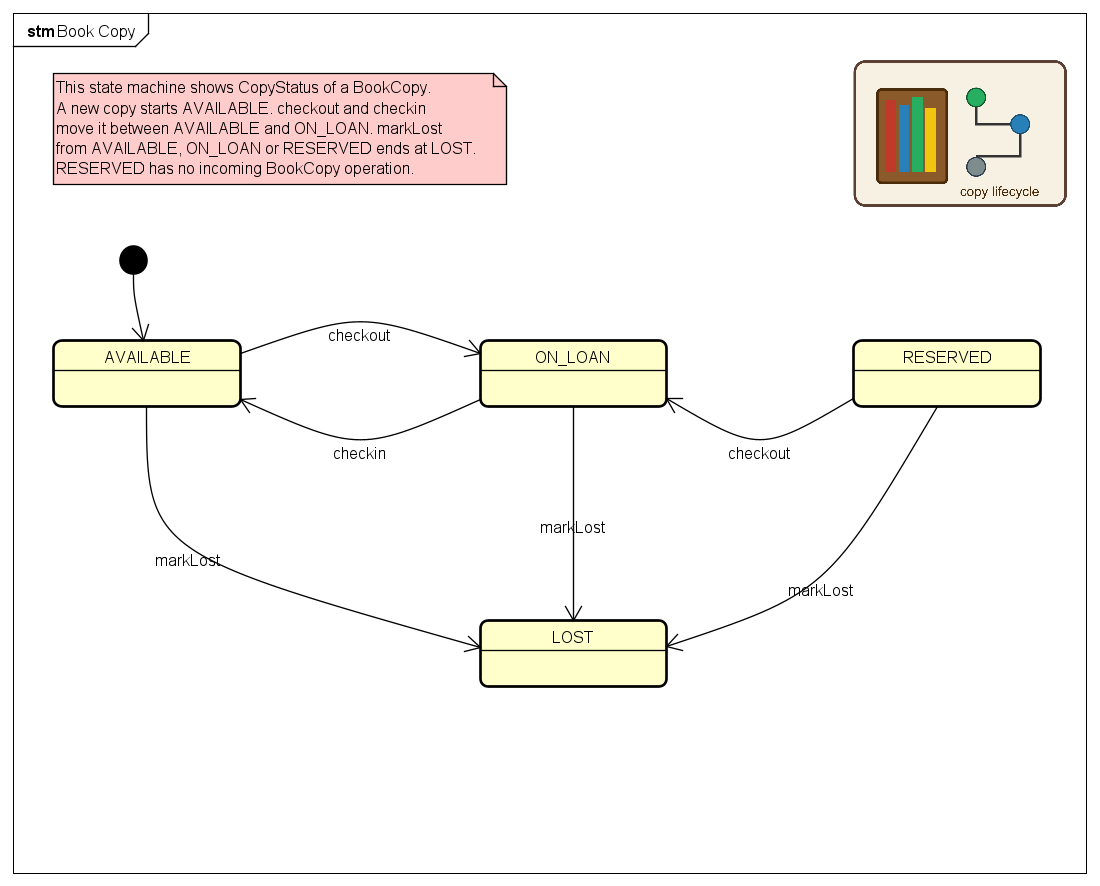
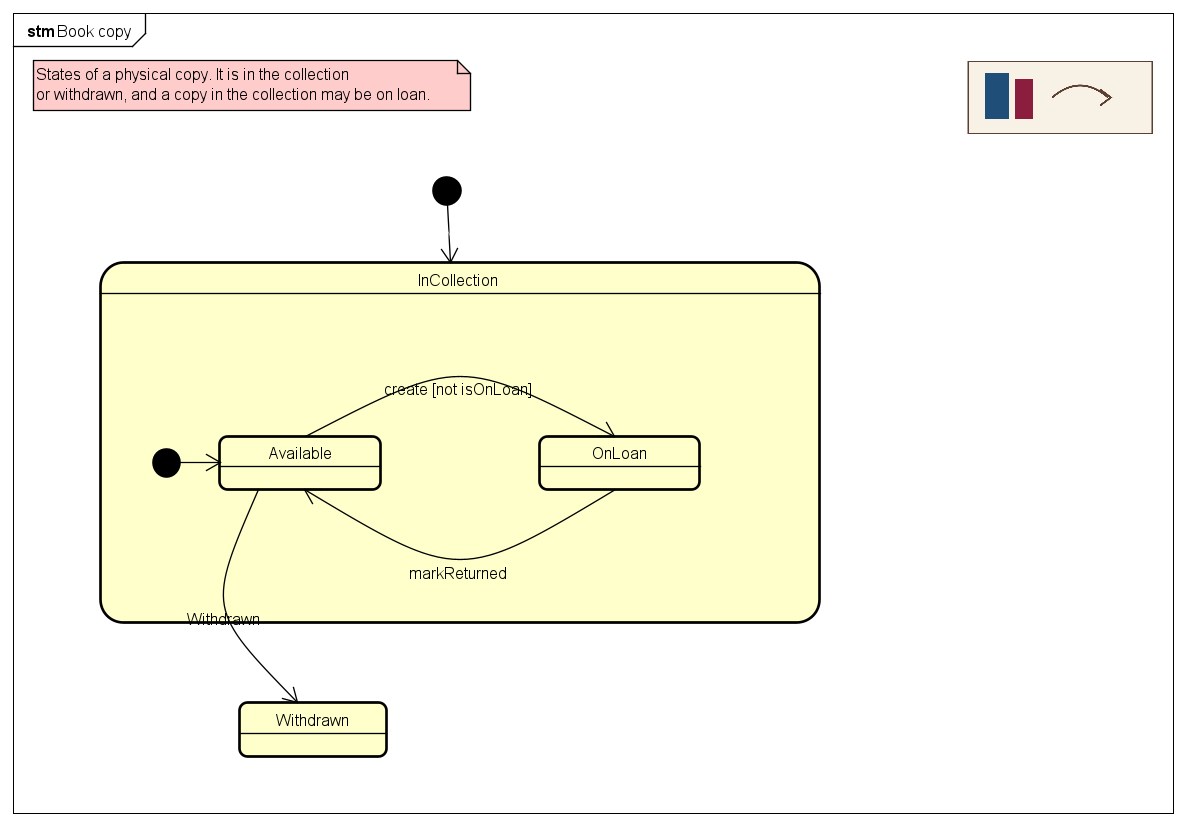
Update the Grok Build demo to use Grok 4.7

diff --git a/README.md b/README.md
@@ -57,7 +57,7 @@ Model: Astra / Effort: Medium / Total time: approx. 19 min
 
 ### Grok Build
 
-Model: Grok 4.6 / Effort: Medium / Total time: approx. 41 min
+Model: Grok 4.7 / Effort: Medium / Total time: approx. 41 min
 
 <table width="100%">
   <tr>
@@ -67,10 +67,10 @@ Model: Grok 4.6 / Effort: Medium / Total time: approx. 41 min
     <td width="25%" align="center"><b>IV</b></td>
   </tr>
   <tr>
-    <td width="25%"><a href="demo/grok-build/Library%20Management%20Structure.png"><img src="demo/grok-build/Library%20Management%20Structure.png" width="100%"></a></td>
-    <td width="25%"><a href="demo/grok-build/Borrow%20Book.png"><img src="demo/grok-build/Borrow%20Book.png" width="100%"></a></td>
-    <td width="25%"><a href="demo/grok-build/Return%20Book.png"><img src="demo/grok-build/Return%20Book.png" width="100%"></a></td>
-    <td width="25%"><a href="demo/grok-build/Book%20Copy.png"><img src="demo/grok-build/Book%20Copy.png" width="100%"></a></td>
+    <td width="25%"><a href="demo/grok-build/Library%20structure.png"><img src="demo/grok-build/Library%20structure.png" width="100%"></a></td>
+    <td width="25%"><a href="demo/grok-build/Borrow%20a%20copy.png"><img src="demo/grok-build/Borrow%20a%20copy.png" width="100%"></a></td>
+    <td width="25%"><a href="demo/grok-build/Return%20a%20copy.png"><img src="demo/grok-build/Return%20a%20copy.png" width="100%"></a></td>
+    <td width="25%"><a href="demo/grok-build/Book%20copy.png"><img src="demo/grok-build/Book%20copy.png" width="100%"></a></td>
   </tr>
 </table>
 
